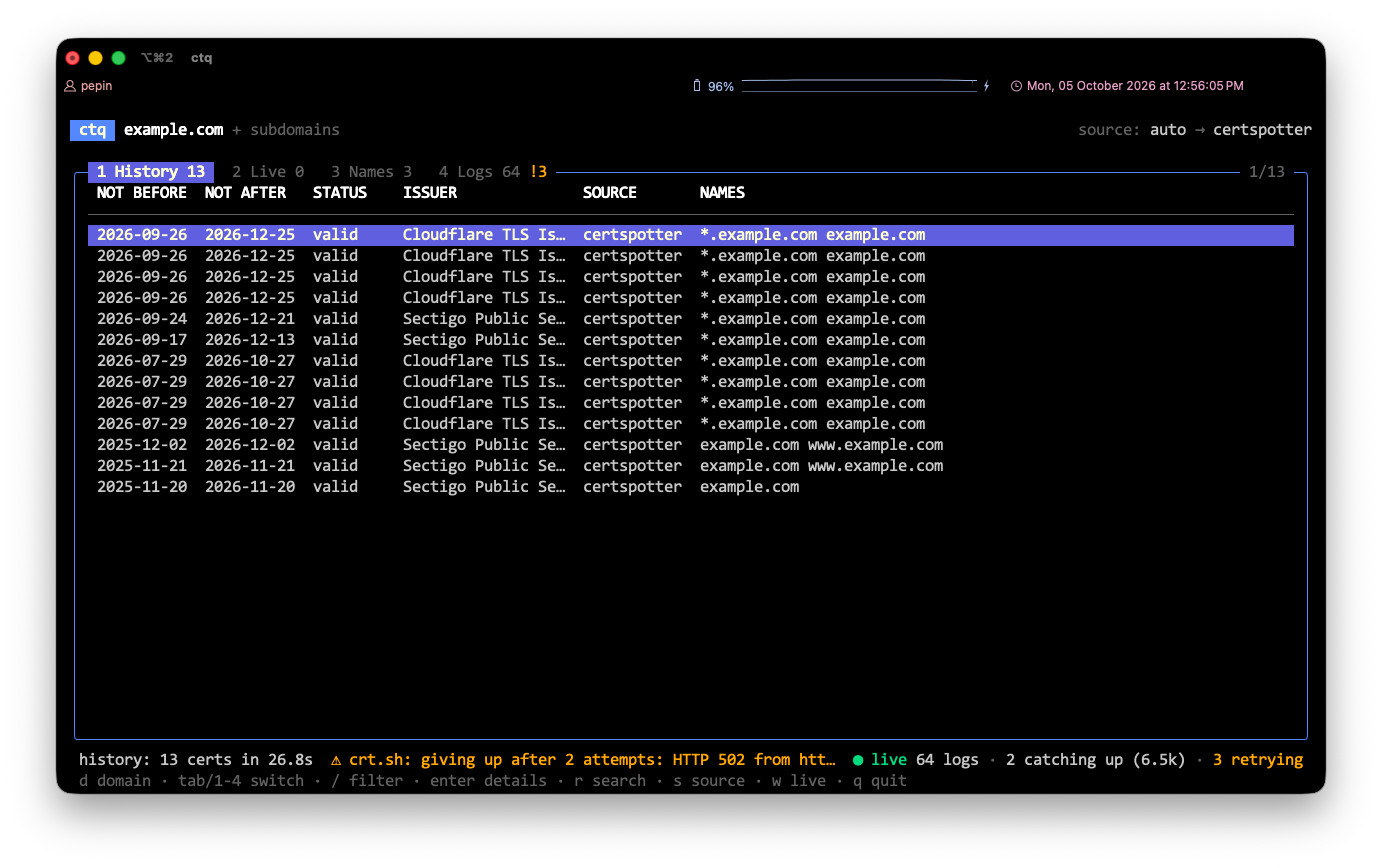
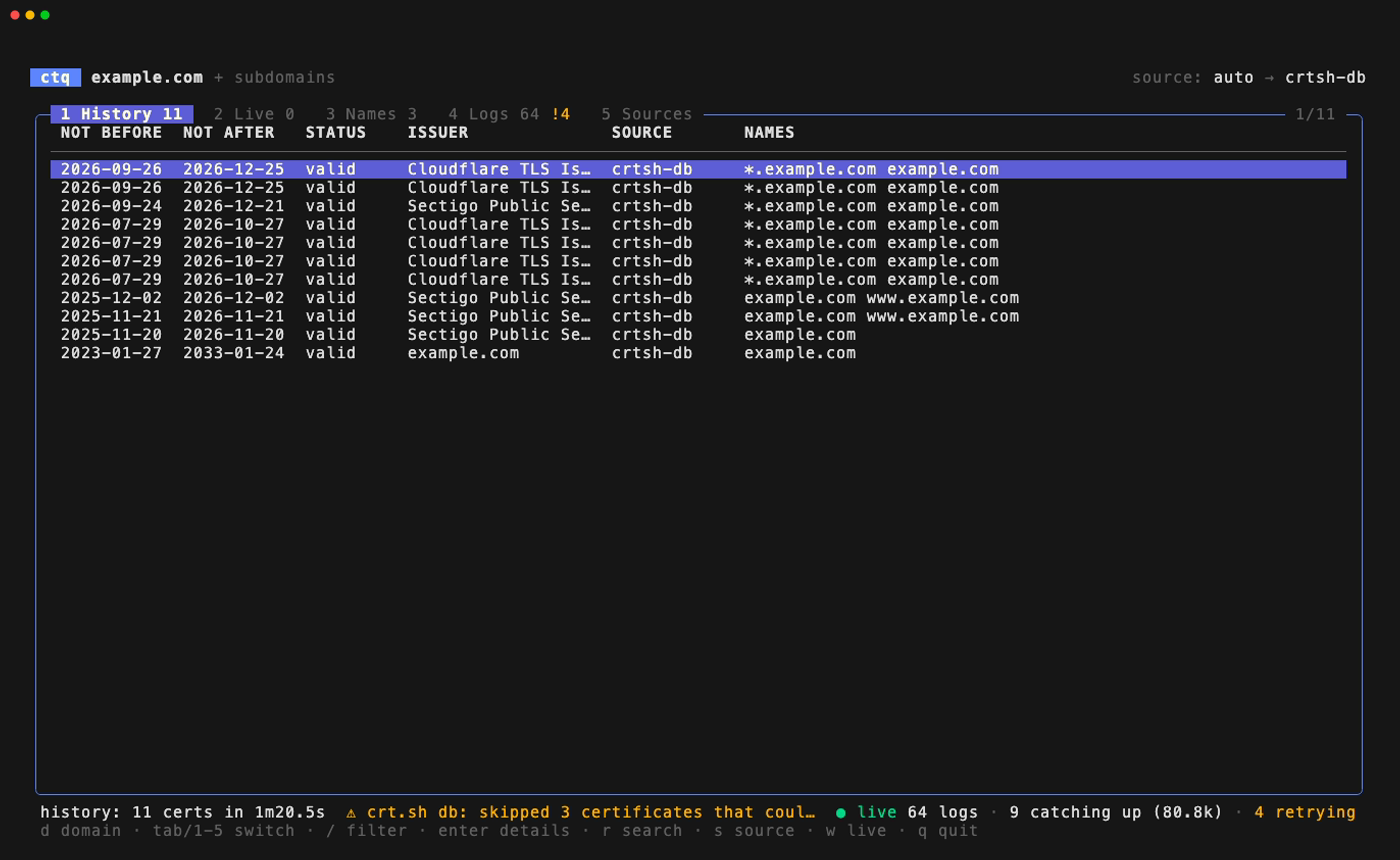
docs: refresh README for crtsh-db and Sources, add AI agents section (#4)

diff --git a/README.md b/README.md
@@ -2,7 +2,7 @@
 
 An interactive [Certificate Transparency](https://certificate.transparency.dev/) explorer for the terminal.
 
-![The Names tab: every name found for example.com, with certificate count, first certificate, expiry and issuers](docs/screenshots/names.png)
+![ctq searching example.com: the Sources tab follows the query through crt.sh's database, then History, Names and Live show the results](docs/screenshots/demo.gif)
 
 Point `ctq` at a domain and it shows every TLS certificate issued for it and its subdomains. Past certificates come from CT aggregators; new ones stream in straight from the CT logs within seconds of being logged. Typical uses are subdomain discovery, spotting certificates you didn't request, and keeping an inventory of what's exposed.
 
@@ -58,7 +58,7 @@ The search and the live feed start together. Press `d` at any time to switch to 
   </tr>
   <tr>
     <td>On launch, the search runs while the live feed connects to every CT log.</td>
-    <td>History lists one row per certificate. The header shows which source answered: here crt.sh failed and <code>auto</code> fell back to Cert Spotter.</td>
+    <td>History lists one row per certificate. The header shows which source answered: here <code>auto</code> got its results from crt.sh's database.</td>
   </tr>
   <tr>
     <td width="50%"><img src="docs/screenshots/live.png" alt="The Live tab while watching 64 CT logs"></td>
@@ -68,11 +68,17 @@ The search and the live feed start together. Press `d` at any time to switch to 
     <td>Live shows certificates as they're logged. Until one arrives, it says how many logs it's watching.</td>
     <td>Names merges History and Live into one row per name, sorted by zone so a subdomain's children stay together.</td>
   </tr>
+  <tr>
+    <td colspan="2"><img src="docs/screenshots/sources.png" alt="The Sources tab: each step of the search, with the details of the selected event"></td>
+  </tr>
+  <tr>
+    <td colspan="2">Sources shows each step of the search: connections, retries, the wait in crt.sh's queue and the final count. Press enter for the full message, such as an error the status line cuts off.</td>
+  </tr>
 </table>
 
 | Tab | Content |
 |-----|---------|
-| History | certificates already logged, from crt.sh or Cert Spotter |
+| History | certificates already logged, from crt.sh (its database or its API) or Cert Spotter |
 | Live | certificates arriving from the CT logs, newest first |
 | Names | every unique name from both, with status, certificate count, first certificate, latest expiry and issuers |
 | Logs | health of each CT log the live feed reads: position, lag, status and last error |
@@ -92,9 +98,9 @@ A log that fails a poll shows as `retrying` and is retried on the next poll. Aft
 | Key | Action |
 |-----|--------|
 | `d` | search a different domain |
-| `tab`, `shift+tab`, `1`-`4` | switch tab |
+| `tab`, `shift+tab`, `1`-`5` | switch tab |
 | `↑` `↓` | move |
-| `/` | filter by name, issuer or log (`esc` clears) |
+| `/` | filter the current tab: names, issuers, logs or search events (`esc` clears) |
 | `enter` | show details for the selected row |
 | `o` | change the sort order (Names tab) |
 | `r` | search again |
@@ -158,6 +164,37 @@ Each match prints one line with the time, entry type (`cert` or `precert`), issu
 
 Without `-state`, `watch` starts at the current end of each log and only reports certificates logged after it starts. If `-v` shows lag growing, raise `-workers`.
 
+## Using ctq with AI agents
+
+Coding agents such as Claude Code can't drive the TUI, which needs an interactive terminal. The CLI works well for them:
+
+- `ctq search -o json example.com` prints a JSON array on stdout, one object per certificate: `id`, `source`, `issuer`, `dns_names`, `not_before`, `not_after` and `expired`. Warnings and `-v` output go to stderr, so stdout always parses.
+- `ctq search example.com` prints one name per line, the smallest output for a context window.
+- The exit status is 0 on success, including when nothing is found (an empty array), 1 on errors and 2 for an unknown command.
+- The domain argument is validated before any query, so input an agent builds from a conversation can't turn into a crt.sh wildcard.
+
+Three things trip agents up:
+
+- A search through crt.sh's database takes about a minute, sometimes more. Give the command at least 4 minutes; Claude Code's Bash tool stops a command after 2 minutes unless told otherwise. `-source certspotter` answers in seconds but only returns unexpired certificates, under a rate limit.
+- `watch` never exits on its own. Run it with a bound, for example `timeout 10m ctq watch -json example.com` (on macOS, `gtimeout` from coreutils). Each line is one JSON object.
+- When a search fails, `-v` shows each source's attempts on stderr instead of only the last error.
+
+To teach an agent all of this, add a section like this to the project's `AGENTS.md` or `CLAUDE.md`:
+
+```markdown
+## Certificate Transparency lookups
+
+Use `ctq` to find certificates and subdomains for a domain.
+
+- `ctq search -o json <domain>`: JSON array on stdout, warnings on stderr. Exit 0 even when empty.
+- Allow at least 4 minutes per search: crt.sh's database queues each query for about a minute.
+- Fast, unexpired certificates only: `-source certspotter`. Include expired certificates: `-expired`.
+- Never run `ctq tui`, it's interactive. Always run `ctq watch` under `timeout`.
+- If a search fails, rerun it with `-v` and read stderr.
+```
+
+In Claude Code, `"allow": ["Bash(ctq search:*)"]` in `.claude/settings.json` lets the agent run searches without asking each time. `search` only reads public CT data.
+
 ## How it works
 
 Certificate Transparency logs are append-only Merkle trees. Chrome and Safari reject publicly trusted certificates that weren't logged, so CAs submit every certificate they issue. The logs can only be read by position: there is no way to ask a log for one domain's certificates. Searching by domain needs a service that has read every log and indexed the result.
@@ -184,8 +221,10 @@ So `ctq` uses two kinds of sources:
 ## Limitations
 
 - `watch` doesn't verify log signatures or Merkle inclusion proofs. It trusts the log operators and TLS, which is fine for finding certificates but not for auditing logs.
-- crt.sh is a free, shared service and is often overloaded. Expect timeouts on large domains; `auto` falls back to Cert Spotter.
-- Cert Spotter doesn't return expired certificates, so `-expired` only works with crt.sh.
+- crt.sh is a free, shared service and is often overloaded. Its database queues every query for about a minute, and it sometimes refuses connections; `auto` retries, then falls back to the crt.sh API and Cert Spotter. The Sources tab and `search -v` show which step failed.
+- `crtsh-db` needs outbound access to port 5432. On networks that block it, `auto` falls back after one retry.
+- `crtsh-db` skips certificates that Go's X.509 parser rejects (some malformed certificates from public CAs), and says how many in a warning.
+- Cert Spotter doesn't return expired certificates, so `-expired` only works with the crt.sh sources.
 - Duplicate detection in `watch` keeps a bounded set of recent certificates, so a rare duplicate can get through on a long run.
 
 ## Related projects
@@ -205,6 +244,13 @@ CTQ_LIVE=1 go test -run TestLive -v ./internal/ct/   # checks parsing against re
 ```
 
 Unit tests use local HTTP servers and fakes; nothing touches the network unless `CTQ_LIVE` is set.
+
+The README screenshots and the demo GIF are made with [vhs](https://github.com/charmbracelet/vhs) from the tapes in `docs/screenshots/`. They run a real search, so they need network access and take a few minutes:
+
+```sh
+vhs docs/screenshots/screenshots.tape
+vhs docs/screenshots/demo.tape
+```
 
 CI also validates the release config, audits the workflows with [zizmor](https://docs.zizmor.sh/), and scans each platform's binary with [syft](https://github.com/anchore/syft) and [grype](https://github.com/anchore/grype). To run the same checks locally:
 
